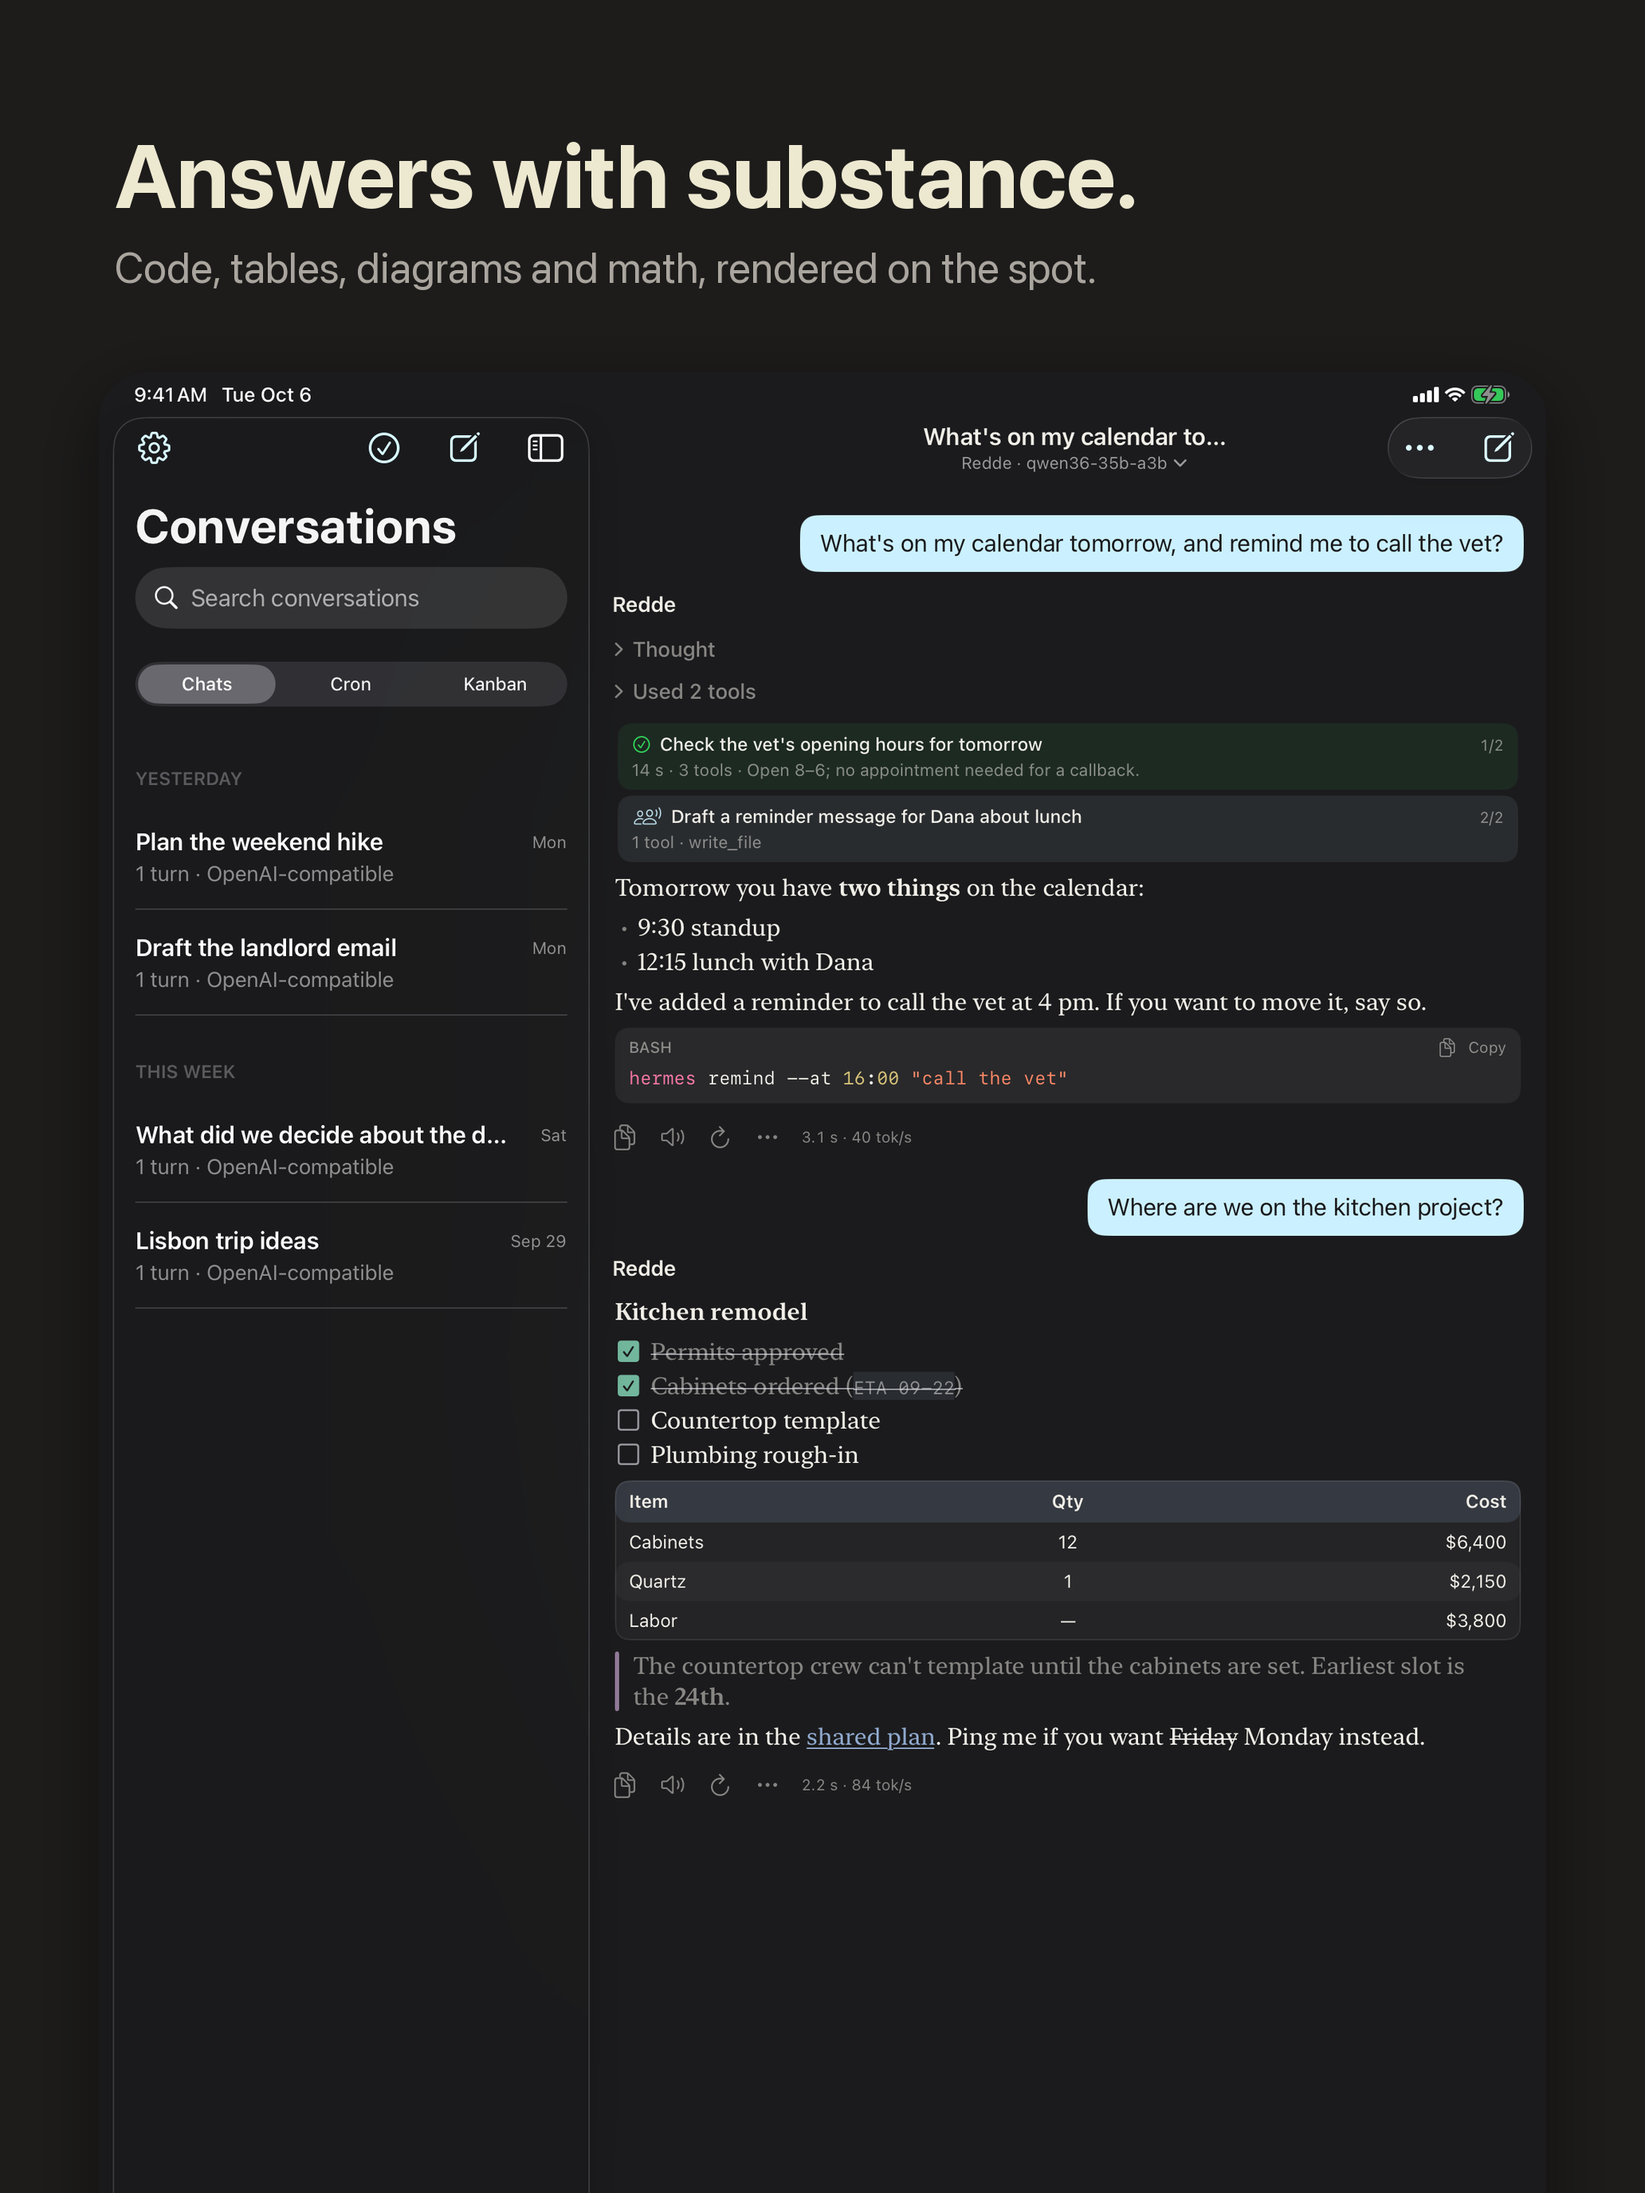
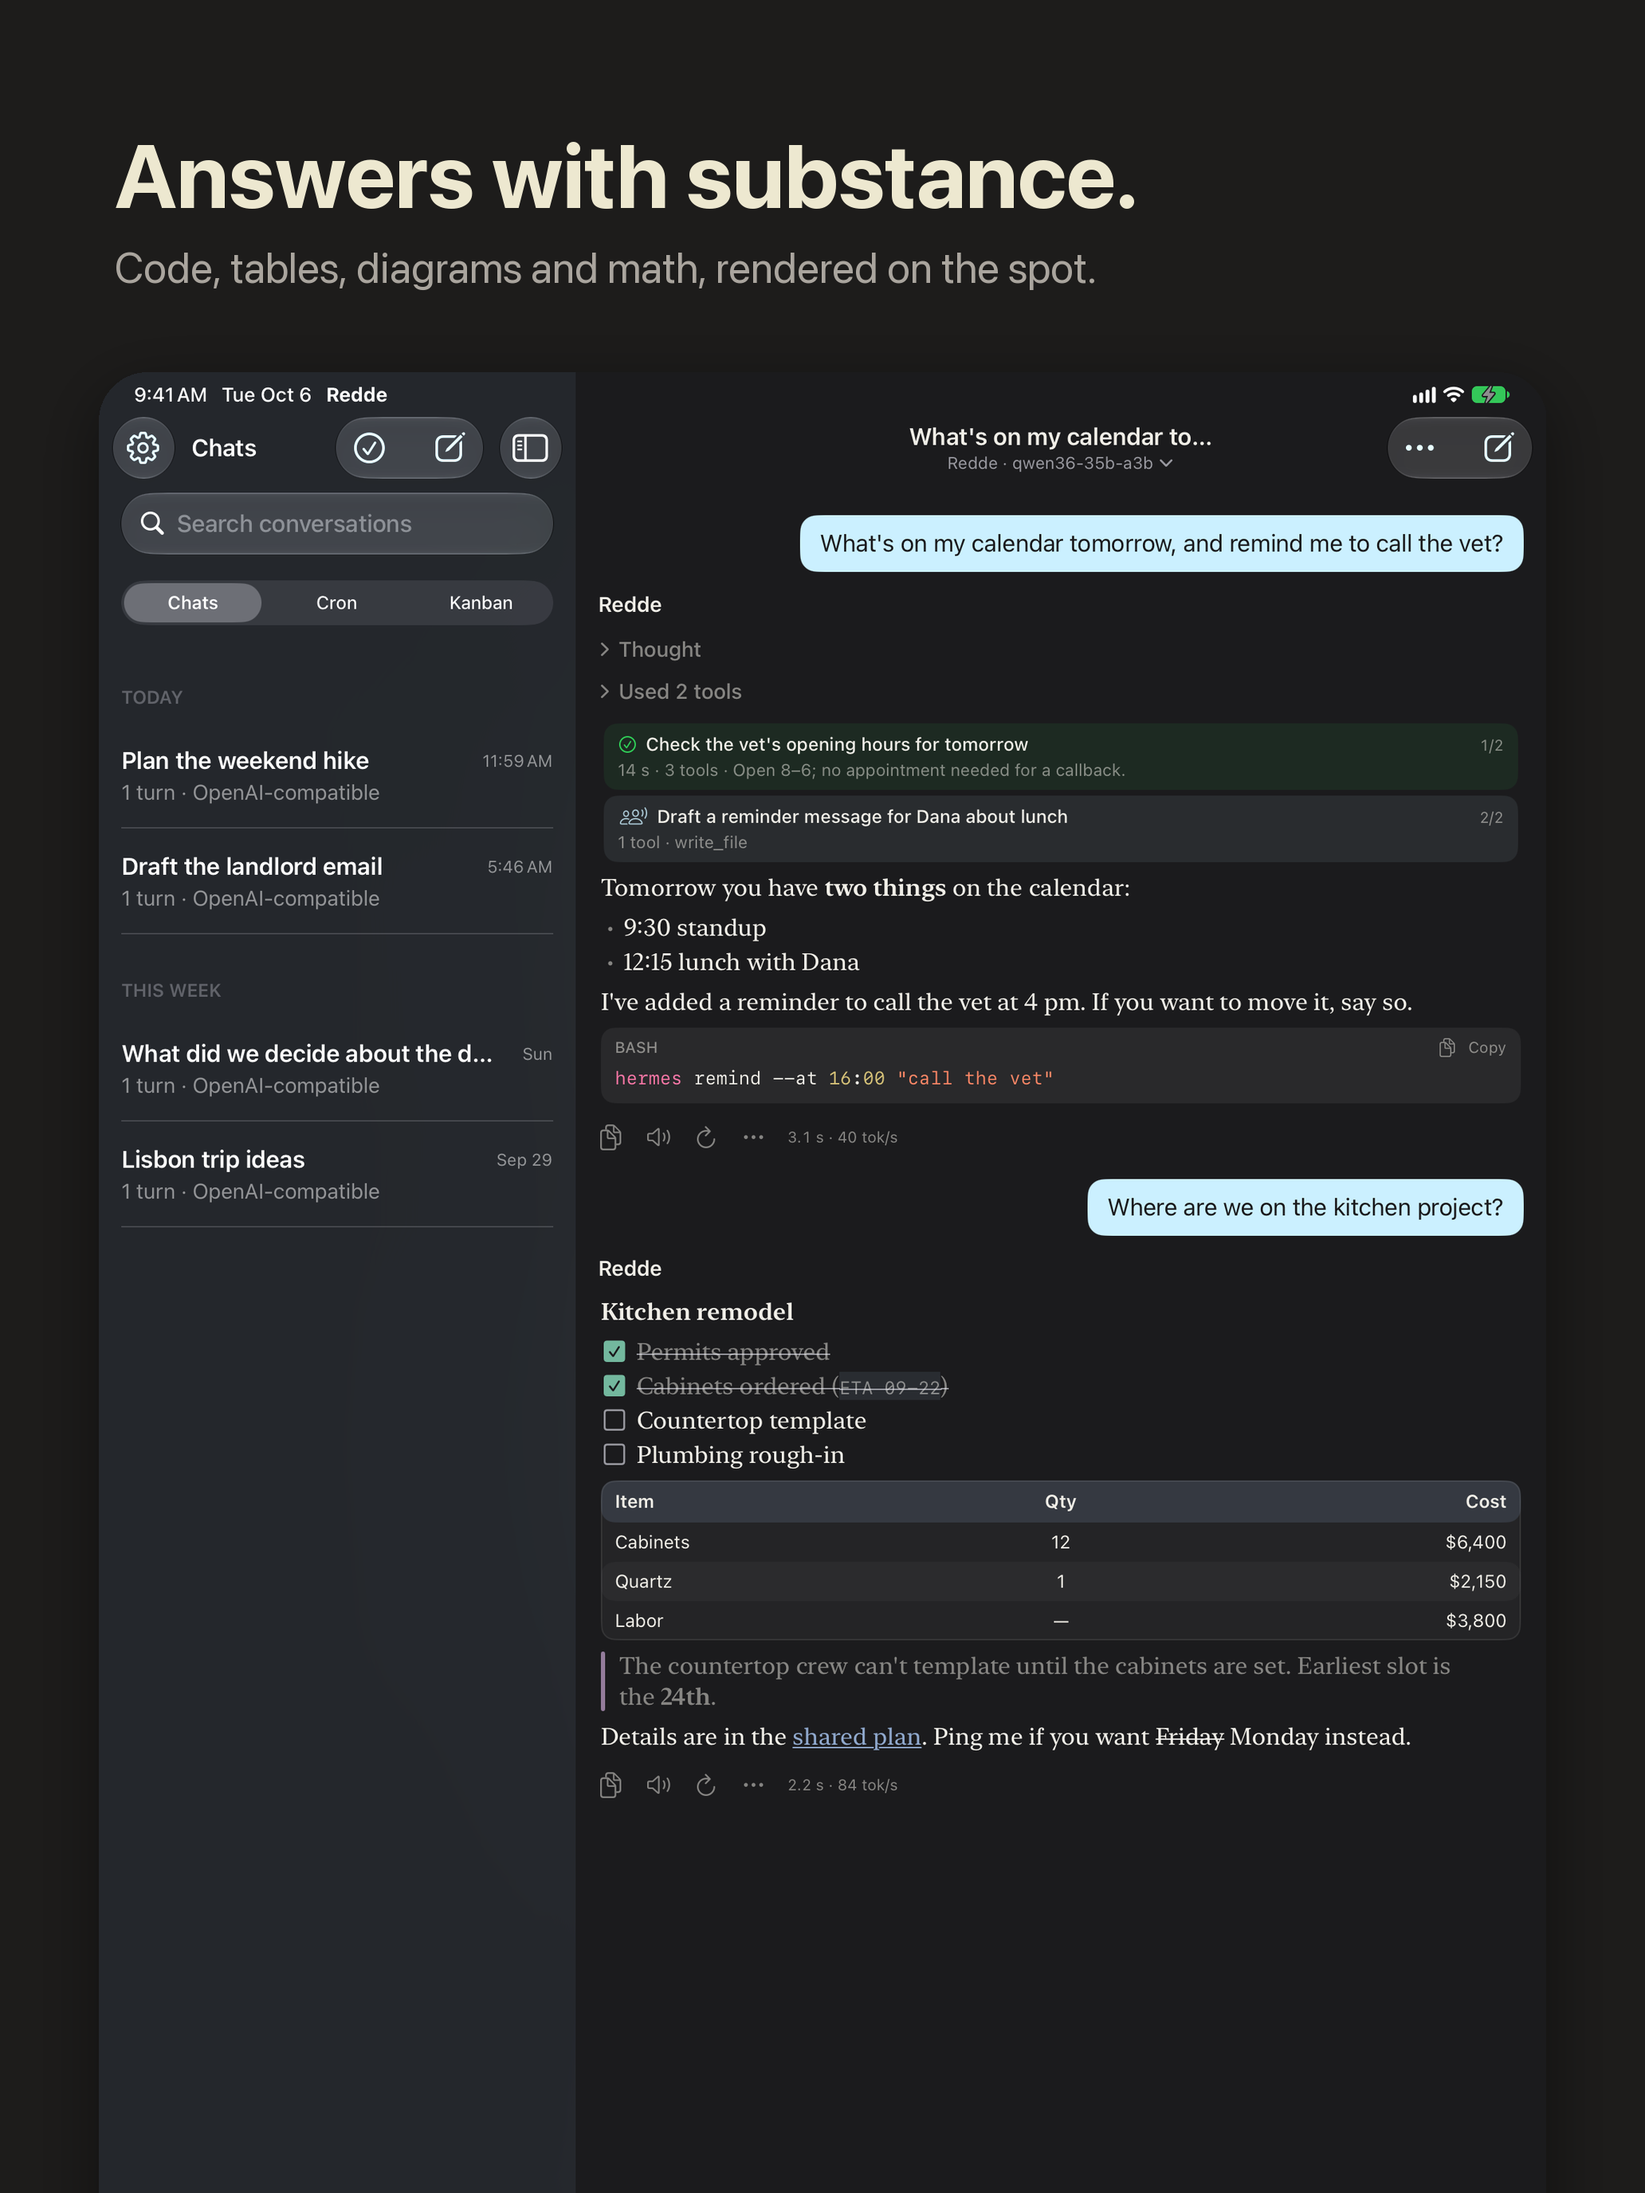
iPad store screenshots and preview video, retaken on iPadOS 27
They were taken on iPadOS 26.3 while iPadOS 27 cut the sidebar's title
short. With the sidebar titled "Chats" there, the iPad set and the iPad cut
of the preview video show the current system.

capture.sh takes ONLY=pad or ONLY=phone to retake one device's shots into a
folder that holds the other's. The iPad video's cut points follow the new
takes; its notes say a plain launch on the iPad wants a longer recording.

diff --git a/design/video/make_preview.py b/design/video/make_preview.py
@@ -164,14 +164,14 @@ SHOTS = [
 ]
 if IPAD:
     SHOTS = [
-        ('ipad-c1-stream', 4.6, 10.3, 'agent', None),
-        ('ipad-c2-voice', 3.6, 6.6, 'voice', None),
-        ('ipad-c3-rich', 40.4, 44.6, 'rich', None),
-        ('ipad-c4-kanban', 3.6, 6.8, 'workspace', None),
-        ('ipad-c6-start', 11.9, 14.0, 'start', None),
-        ('ipad-c6-start', 15.6, 17.6, 'start', None),
-        ('ipad-c7-code', 19.2, 22.6, 'setup', None),
-        ('ipad-c5-yours', 12.8, 15.6, 'yours', None),
+        ('ipad-c1-stream', 4.9, 10.6, 'agent', None),
+        ('ipad-c2-voice', 6.5, 9.5, 'voice', None),
+        ('ipad-c3-rich', 49.4, 53.6, 'rich', None),
+        ('ipad-c4-kanban', 5.45, 5.55, 'workspace', 3.2),
+        ('ipad-c6-start', 16.7, 18.8, 'start', None),
+        ('ipad-c6-start', 21.1, 23.1, 'start', None),
+        ('ipad-c7-code', 24.05, 27.45, 'setup', None),
+        ('ipad-c5-yours', 17.7, 20.5, 'yours', None),
     ]
 CAPTIONS = {
     'agent': ('Your AI agent, on your iPad' if IPAD else 'Your AI agent, in your pocket', 'Watch it think, use tools and answer live'),

diff --git a/design/screenshots/README.md b/design/screenshots/README.md
@@ -4,7 +4,7 @@
 
 Regenerate: `design/screenshots/capture.sh <raw-shots-dir>` builds the Debug app and captures every raw shot on the iPhone 18 Pro Max and iPad Pro 13-inch simulators with the dev flags (`-echo.demo`, `-echo.demoShort`, `-echo.demoTwo`, `-echo.demoLibrary`, `-echo.voiceView`, `-echo.voiceDemo` (voice mode posed mid-listen), `-echo.expandAppIcons` (Settings' App icon grid open), `-voiceOrb <name>`, `-echo.screen settings|sessions|setup`, `-echo.demoHosts` (example endpoints, never personal ones), `-theme <standard|paper|slate|terminal|amber|githubDark|claudeCode>`, `-transport chatCompletions`, `-setupDone YES`) and a 9:41 status bar; then run `/usr/bin/python3 compose.py <raw-shots-dir> design/screenshots` (the system Python has Pillow).
 
-The set for 1.6 was taken on 2026-10-06 with `PHONE=<iPhone 18 Pro Max, iOS 27>` and `PAD=<iPad Pro 13-inch (M5), iPadOS 26.3>` (UDIDs: two iPads share the name). The iPad is on the older system because, in the build these show, iPadOS 27 drew the sidebar's title in the bar, where four buttons squeezed "Conversations" to "Conversa…". The sidebar is titled "Chats" there since, so the next set can be taken on iPadOS 27.
+The set for 1.6 was taken on 2026-10-06 with `PHONE=<iPhone 18 Pro Max, iOS 27>` and `PAD=<iPad Pro 13-inch (M5), iPadOS 27>` (UDIDs: two iPads share the name). `ONLY=pad` or `ONLY=phone` in front of `capture.sh` retakes one device's shots into a folder that already holds the other's; composing again leaves the untouched set byte for byte as it was.
 
 ## Two-slot panorama
 

diff --git a/design/video/README.md b/design/video/README.md
@@ -35,5 +35,6 @@ first launch shows a key prompt), `ipad-c2-voice`, `--test ipad-c3-rich testRich
 `ipad-c4-kanban` (plain launch with `-echo.demo -echo.demoLibrary -echo.demoKanban -echo.section
 kanban`; the sidebar shows it), `--test ipad-c5-yours testMakeItYours`, `--test ipad-c6-start
 testAPlaceToStart`, `--test ipad-c7-code testSetUpByCode`; then `/usr/bin/python3 make_preview.py
-ipad`. The 1.6 cut was recorded on iPadOS 26.3, as the screenshots were (see
-`../screenshots/README.md`: in that build iPadOS 27 squeezed the sidebar's title).
+ipad`. The 1.6 cut was recorded on iPadOS 27. A plain launch on the iPad can take five seconds
+or more to show the app: give `ipad-c2-voice` 14 seconds, and hold the board in `ipad-c4-kanban`
+with the fifth value in `SHOTS` (its take ends as soon as the board is up).
